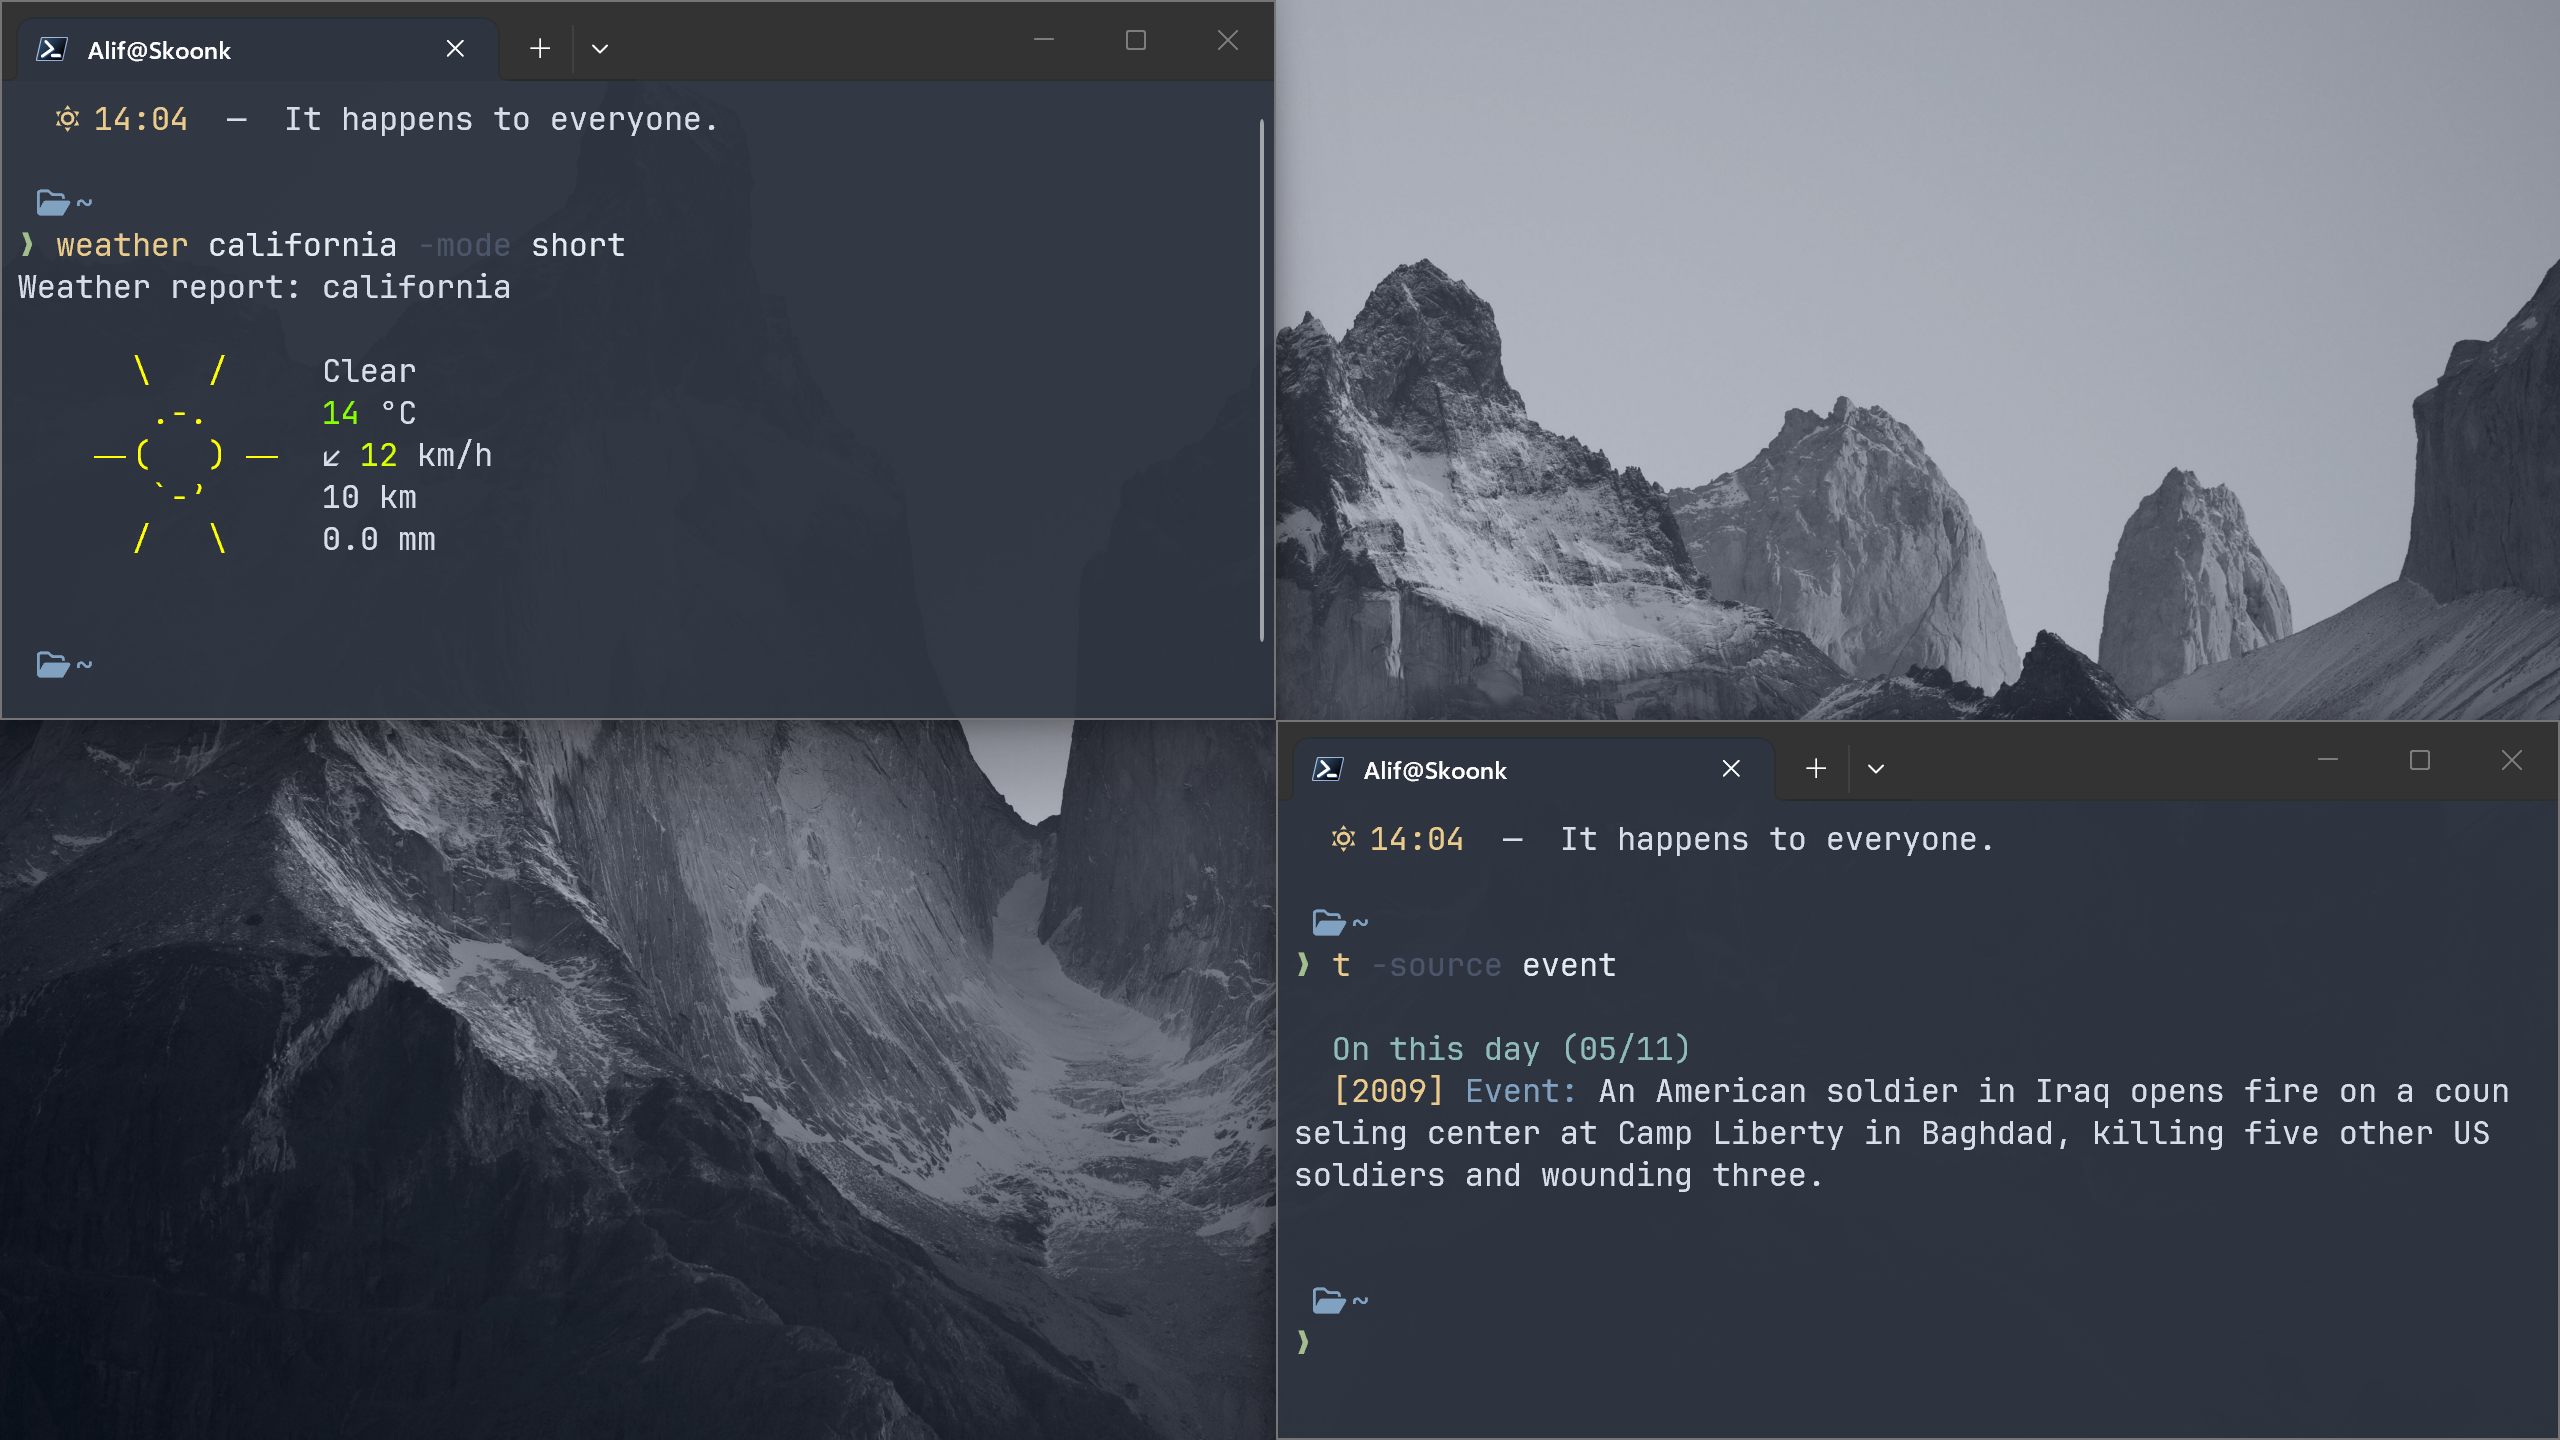
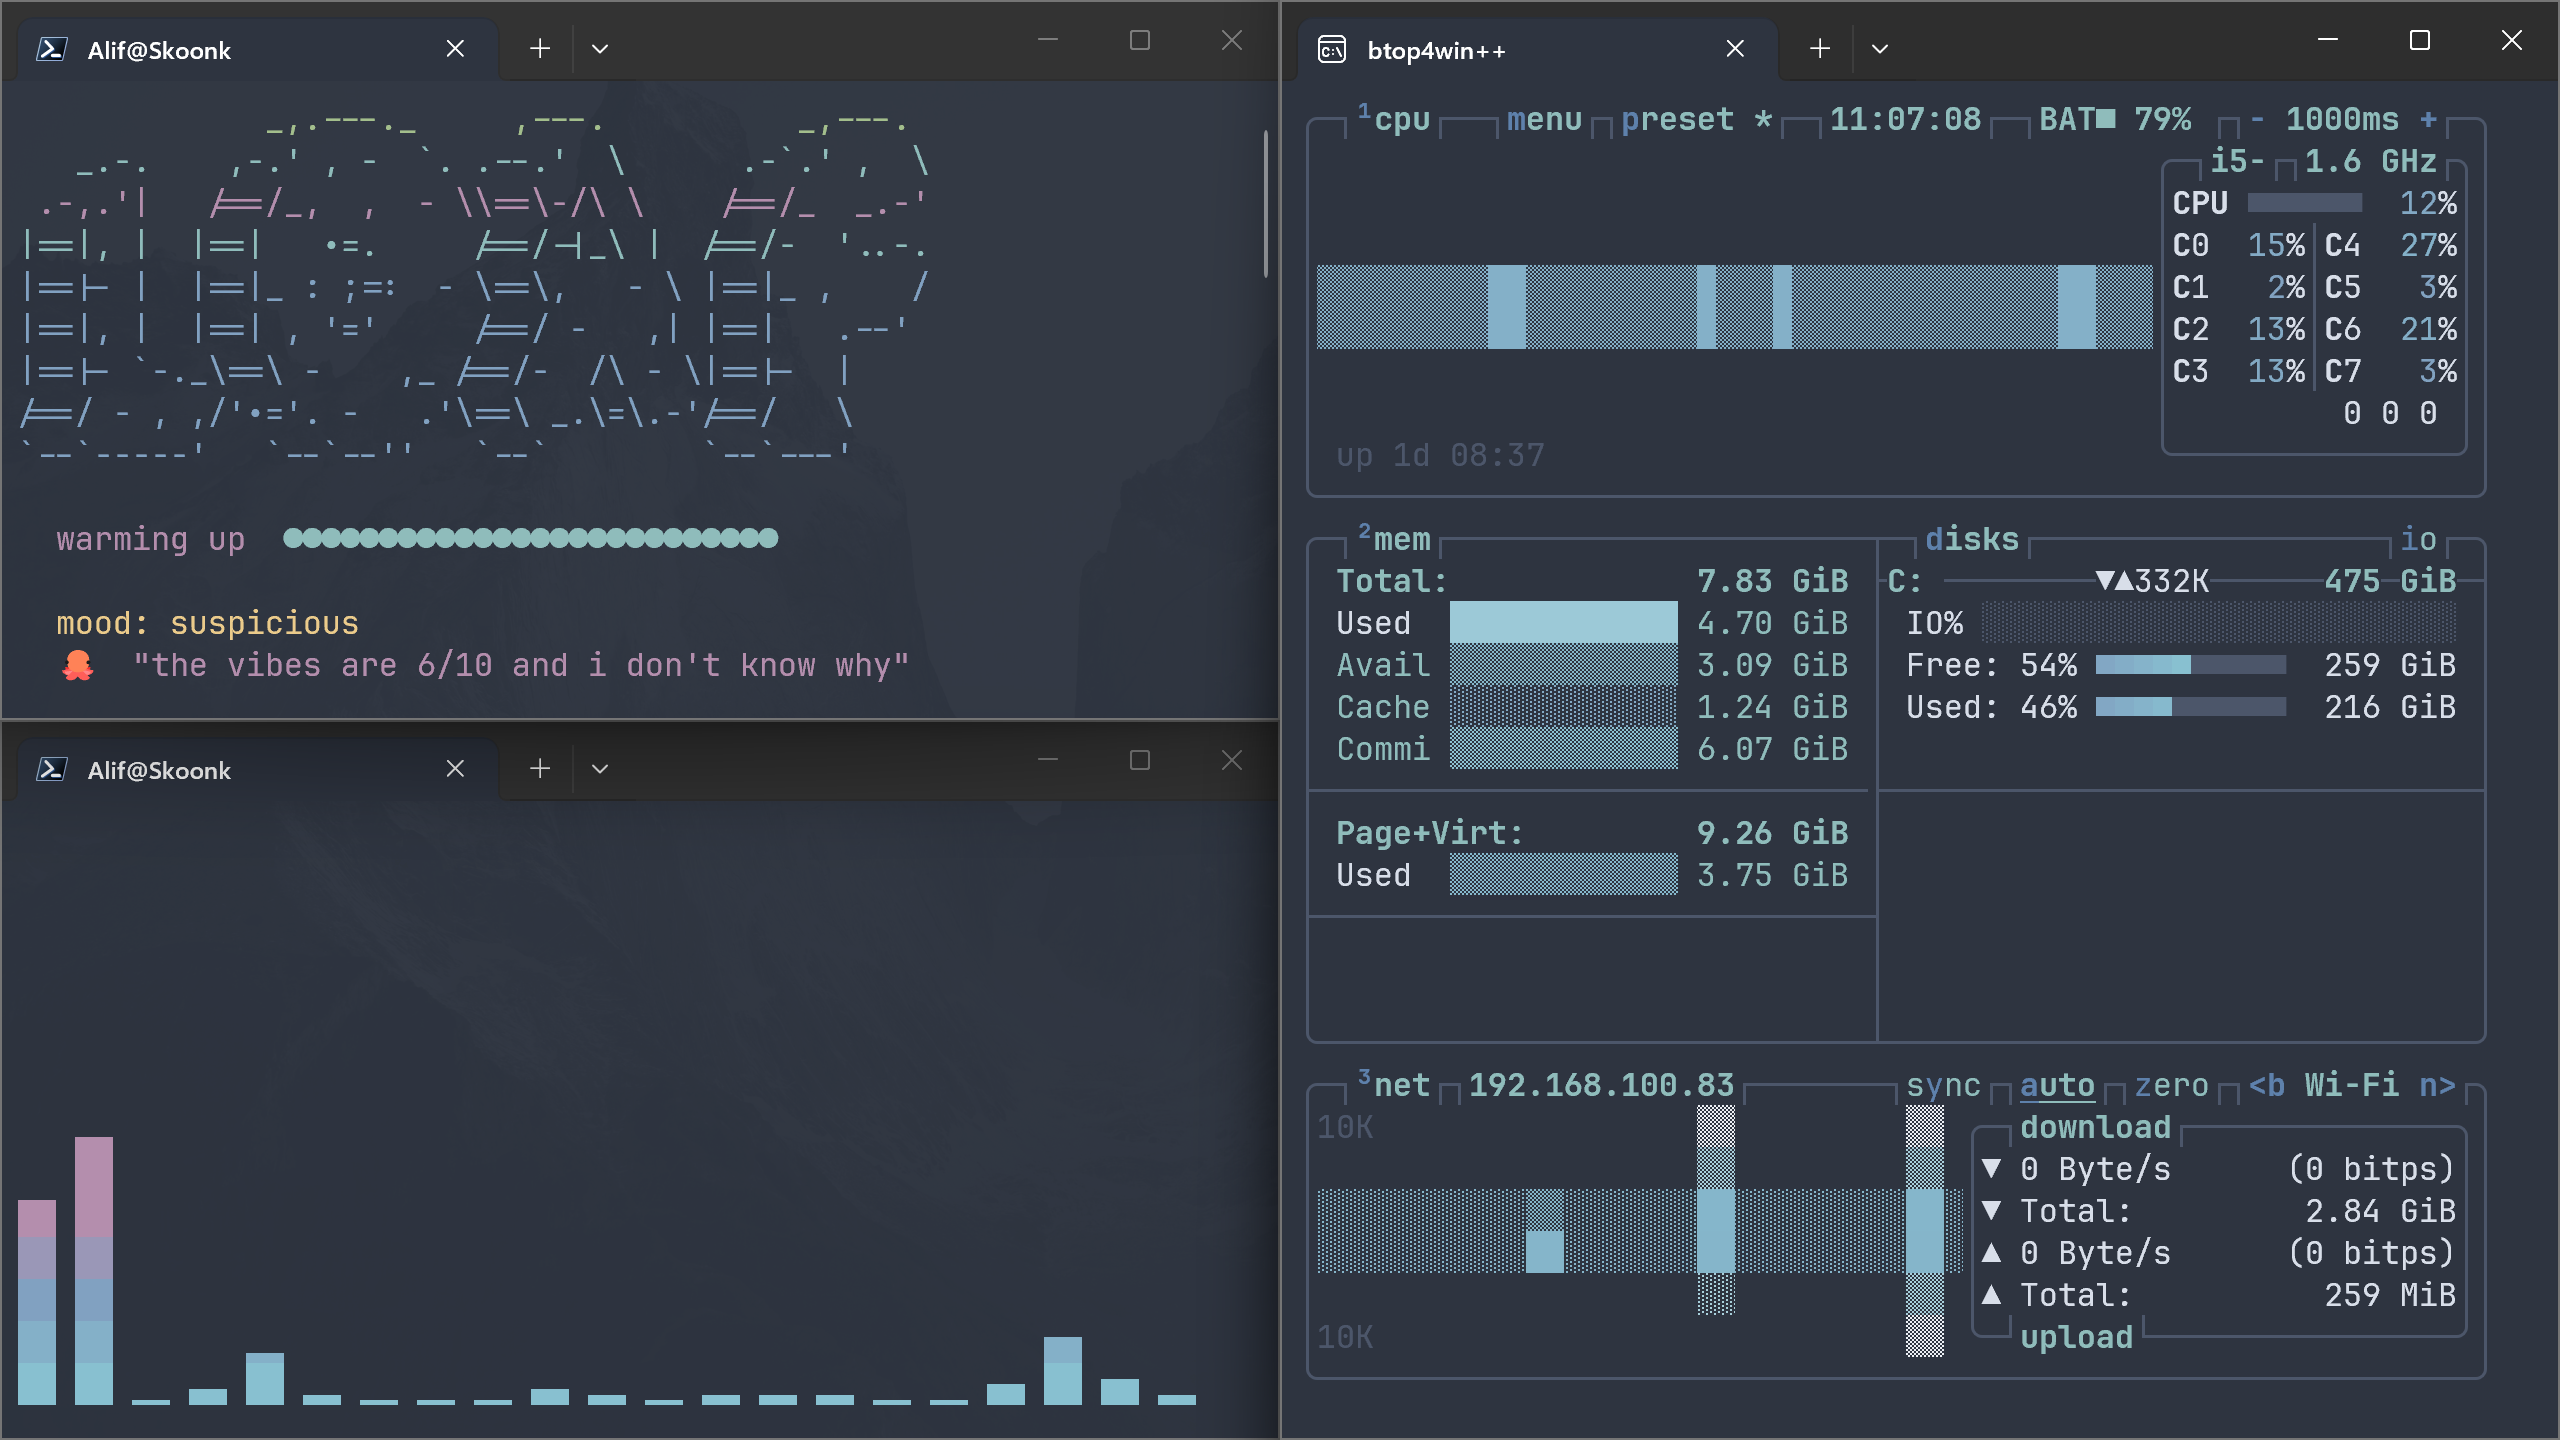
refactor: update assets and reorganize cursor files

diff --git a/readme.md b/readme.md
@@ -6,13 +6,54 @@ Personal config files and settings for funsies.
 
 ![2](assets/2.png)
 
+![3](assets/3.png)
+
 ![cava](assets/cava.gif)
 
+# What's this?
+
+A PowerShell profile with Nord color theme, API integrations, fuzzy search, and utilities.
+
+## Features
+
+- Nord color theme throughout all outputs
+- Dynamic time-based greeting with icons
+- Weather reports for any location (Full, Short, Line, Moon modes)
+- Daily historical trivia from Wikipedia
+- Random advice generation
+- Google search from terminal
+- Fuzzy search for command history (Ctrl+R) and files (Ctrl+T)
+- Starship prompt integration
+- Zoxide smart directory jumping
+
+## Commands
+
+| Command | Aliases | Description |
+|---------|---------|-------------|
+| weather [city] | - | Get weather forecast |
+| advice | - | Random life advice |
+| t | Get-Trivia | Daily historical events |
+| g query | google | Open Google search in browser |
+| h | helpme | Show all commands |
+| home | - | Go to home directory |
+| cl | - | Clear screen |
+| pingtest | - | Ping Google DNS |
+| ff | - | Show system info (fastfetch) |
+| z dir | - | Smart directory jump (zoxide) |
+
+## Keyboard Shortcuts
+
+| Shortcut | Action |
+|----------|--------|
+| Ctrl+R | Fuzzy search command history |
+| Ctrl+T | Fuzzy search files |
+
 ## Dependencies
-- [bottom](https://github.com/ClementTsang/bottom)
+- [bottom](https://github.com/ClementTsang/bottom) or [btop4win](https://github.com/aristocratos/btop4win)
 - [cava](https://github.com/karlstav/cava)
 - [fastfetch](https://github.com/fastfetch-cli/fastfetch)
 - [fzf](https://github.com/junegunn/fzf)
+- [speedtest cli](https://www.speedtest.net/apps/cli)
 - [starship](https://github.com/starship/starship)
 - [zoxide](https://github.com/ajeetdsouza/zoxide)
 
@@ -36,9 +77,7 @@ Personal config files and settings for funsies.
 │       ├── ui.ps1                     # UI utilities
 │       └── utils.ps1                  # General utilities
 ├── sublime text/                      # Sublime Text configuration
-│   └── Packages/
-│       └── User/
-│           └── Preferences.sublime-settings
+│   └── Preferences.sublime-settings
 └── wallpapers/                        # Desktop wallpapers
 ```
 ## TODO
